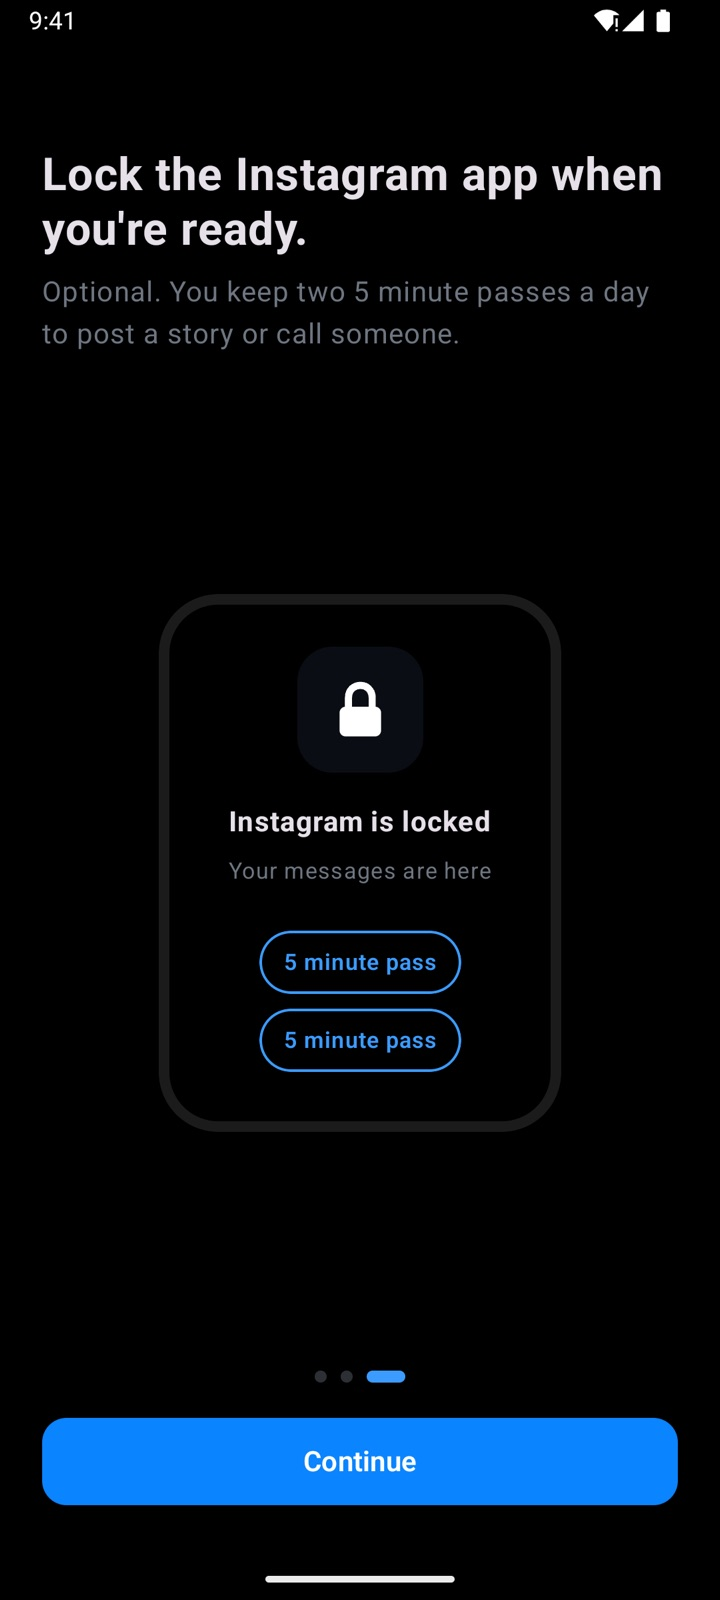
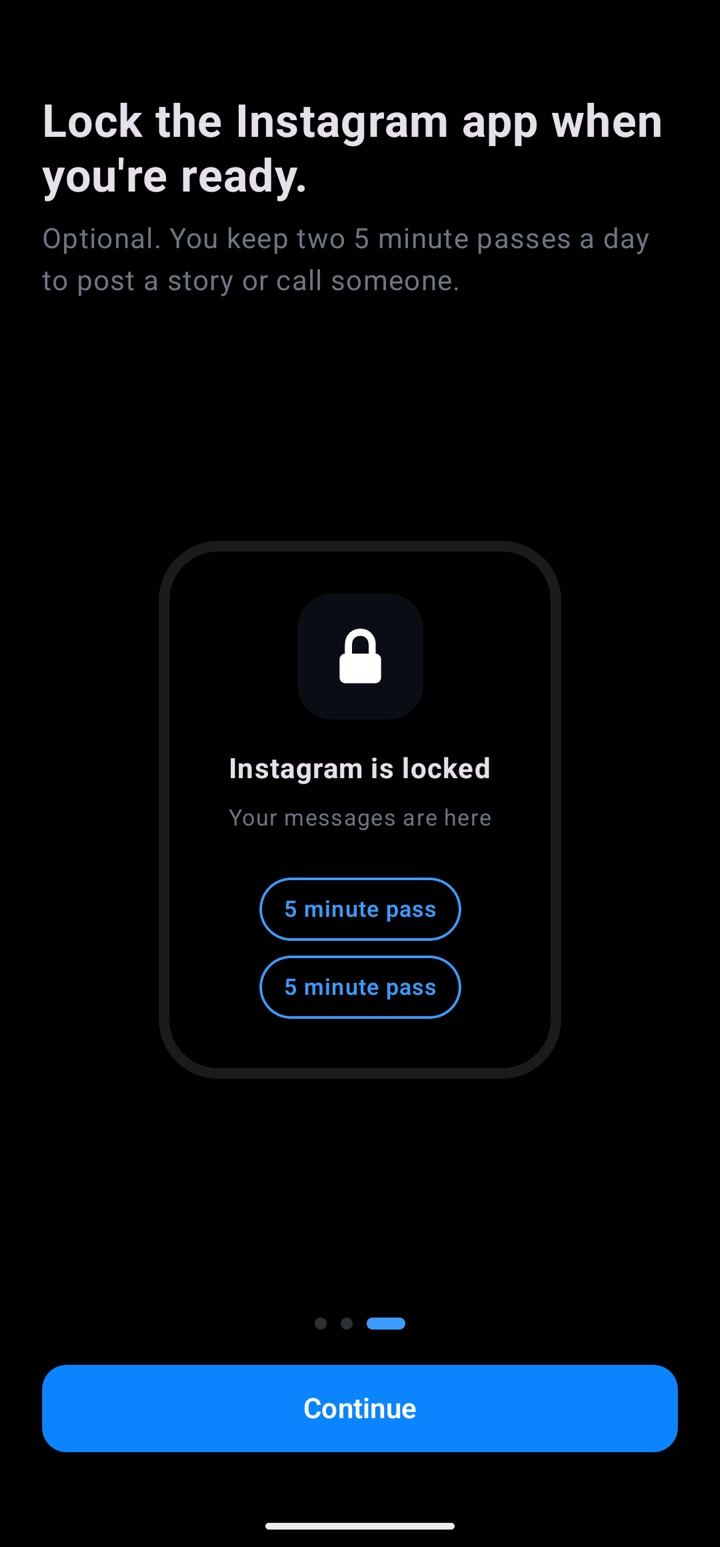
Smoother scrolling, Gmail contact link, same-tab privacy link, uncropped phone screens

diff --git a/index.html b/index.html
@@ -68,6 +68,7 @@
       overflow: hidden;
       pointer-events: none;
       z-index: 0;
+      contain: strict;
     }
 
     .bg-glow {
@@ -209,9 +210,7 @@
       position: sticky;
       top: 0;
       z-index: 10;
-      background: rgba(10, 21, 46, 0.72);
-      -webkit-backdrop-filter: blur(12px);
-      backdrop-filter: blur(12px);
+      background: rgba(10, 21, 46, 0.94);
       border-bottom: 1px solid var(--border);
     }
 
@@ -389,7 +388,7 @@
       display: block;
       width: 100%;
       height: auto;
-      aspect-ratio: 9 / 20;
+      aspect-ratio: 720 / 1547;
       object-fit: cover;
       border-radius: 35px;
     }
@@ -773,7 +772,7 @@
             <p class="note">Free. No extra account needed.</p>
           </div>
           <div class="phone">
-            <img src="screens/welcome.jpg" width="720" height="1600" alt="DMs Only welcome screen: Instagram without the Feed, Reels or Explore.">
+            <img src="screens/welcome.jpg" width="720" height="1547" alt="DMs Only welcome screen: Instagram without the Feed, Reels or Explore.">
           </div>
         </div>
       </section>
@@ -794,7 +793,7 @@
                 <p>They're removed completely, so there's nothing pulling you into a scroll. Search and the new post button are hidden too.</p>
               </div>
               <div class="feature-visual">
-                <div class="phone"><img src="screens/no-feed.jpg" width="720" height="1600" loading="lazy" alt="Screen showing that the Feed, Reels and Explore are removed."></div>
+                <div class="phone"><img src="screens/no-feed.jpg" width="720" height="1547" loading="lazy" alt="Screen showing that the Feed, Reels and Explore are removed."></div>
               </div>
             </article>
 
@@ -805,7 +804,7 @@
                 <p>DMs, group chats, voice notes and friends' Stories still work with your existing Instagram account. Send photos, videos and voice messages like you always do.</p>
               </div>
               <div class="feature-visual">
-                <div class="phone"><img src="screens/messages-stay.jpg" width="720" height="1600" loading="lazy" alt="Screen showing that DMs, group chats, voice notes and Stories are kept."></div>
+                <div class="phone"><img src="screens/messages-stay.jpg" width="720" height="1547" loading="lazy" alt="Screen showing that DMs, group chats, voice notes and Stories are kept."></div>
               </div>
             </article>
 
@@ -816,7 +815,7 @@
                 <p>Block the real Instagram app when you're ready. You keep two 5 minute passes a day for things only the app can do, like posting a story or calling someone. Turn it off any time in Settings.</p>
               </div>
               <div class="feature-visual">
-                <div class="phone"><img src="screens/lock-app.jpg" width="720" height="1600" loading="lazy" alt="Screen explaining the optional Instagram lock with two 5 minute passes a day."></div>
+                <div class="phone"><img src="screens/lock-app.jpg" width="720" height="1547" loading="lazy" alt="Screen explaining the optional Instagram lock with two 5 minute passes a day."></div>
               </div>
             </article>
 
@@ -844,10 +843,10 @@
               <div>
                 <p class="label">Privacy</p>
                 <h3>Your password stays with Instagram.</h3>
-                <p>You sign in on Instagram's own page. DMs Only has no servers of its own and no analytics, so your password and messages only ever go to Instagram. <a href="privacy/" target="_blank" rel="noopener noreferrer">Read the privacy policy</a>.</p>
+                <p>You sign in on Instagram's own page. DMs Only has no servers of its own and no analytics, so your password and messages only ever go to Instagram. <a href="privacy/">Read the privacy policy</a>.</p>
               </div>
               <div class="feature-visual">
-                <div class="phone"><img src="screens/sign-in.jpg" width="720" height="1600" loading="lazy" alt="Sign in screen: you sign in on Instagram's own page and DMs Only never sees your password."></div>
+                <div class="phone"><img src="screens/sign-in.jpg" width="720" height="1547" loading="lazy" alt="Sign in screen: you sign in on Instagram's own page and DMs Only never sees your password."></div>
               </div>
             </article>
           </div>
@@ -909,7 +908,7 @@
             </details>
             <details>
               <summary>How do I remove my data?</summary>
-              <p>Go to Android Settings → Apps → DMs Only → Storage → Clear storage. This signs you out and resets the app. Your Instagram account and messages aren't affected. The <a href="privacy/" target="_blank" rel="noopener noreferrer">privacy policy</a> has the details.</p>
+              <p>Go to Android Settings → Apps → DMs Only → Storage → Clear storage. This signs you out and resets the app. Your Instagram account and messages aren't affected. The <a href="privacy/">privacy policy</a> has the details.</p>
             </details>
           </div>
         </div>
@@ -923,7 +922,7 @@
               <h2>Questions, bugs or ideas?</h2>
               <p>Send an email any time: reshu70173@gmail.com</p>
             </div>
-            <a class="btn" href="mailto:reshu70173@gmail.com" target="_blank" rel="noopener noreferrer">Send an email</a>
+            <a class="btn" id="email-btn" href="https://mail.google.com/mail/?view=cm&amp;fs=1&amp;to=reshu70173@gmail.com&amp;su=DMs%20Only" target="_blank" rel="noopener noreferrer">Send an email</a>
           </div>
         </div>
       </section>
@@ -945,7 +944,7 @@
       <div class="wrap">
         <a class="brand" href="#top"><img src="favicon.svg" alt="" width="32" height="32">DMs Only</a>
         <nav class="footer-links" aria-label="Footer">
-          <a href="privacy/" target="_blank" rel="noopener noreferrer">Privacy Policy</a>
+          <a href="privacy/">Privacy Policy</a>
           <a href="#contact">Contact</a>
           <span>© 2026 DMs Only</span>
         </nav>
@@ -1050,15 +1049,28 @@
       const reduceMotion = matchMedia("(prefers-reduced-motion: reduce)");
       let running = false;
       let last = 0;
+      let prev = 0;
+      let clock = 0;
+      let lastScroll = -Infinity;
+
+      // Clouds hold still while the page scrolls, so scrolling gets the whole frame budget.
+      addEventListener("scroll", () => {
+        lastScroll = performance.now();
+      }, { passive: true });
 
       function tick(now) {
         if (reduceMotion.matches) {
           running = false;
           return;
         }
-        if (now - last >= 40) {
-          last = now;
-          draw(now / 1000);
+        const dt = prev ? Math.min(now - prev, 100) : 0;
+        prev = now;
+        if (now - lastScroll > 200) {
+          clock += dt / 1000;
+          if (now - last >= 50) {
+            last = now;
+            draw(clock);
+          }
         }
         requestAnimationFrame(tick);
       }
@@ -1066,20 +1078,28 @@
       function start() {
         if (running || reduceMotion.matches) return;
         running = true;
+        prev = 0;
         requestAnimationFrame(tick);
       }
 
       resize();
-      draw(performance.now() / 1000);
+      draw(clock);
       bg.classList.add("is-live");
       start();
 
       reduceMotion.addEventListener("change", start);
       addEventListener("resize", () => {
         resize();
-        draw(performance.now() / 1000);
+        draw(clock);
       });
     })();
+
+    // Phones open the mail app with the address filled in; desktops get Gmail's compose window.
+    if (/Android|iPhone|iPad/i.test(navigator.userAgent)) {
+      const email = document.getElementById("email-btn");
+      email.href = "mailto:reshu70173@gmail.com?subject=DMs%20Only";
+      email.removeAttribute("target");
+    }
   </script>
 </body>
 </html>
